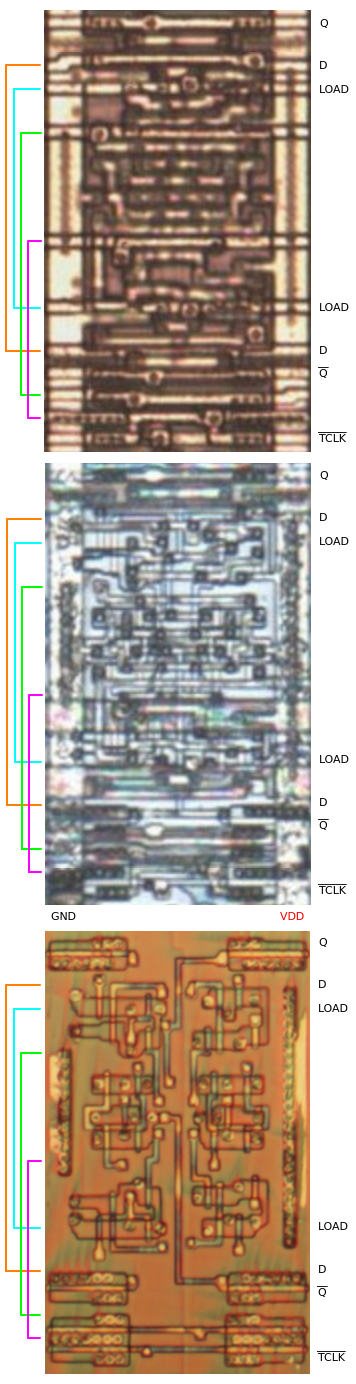
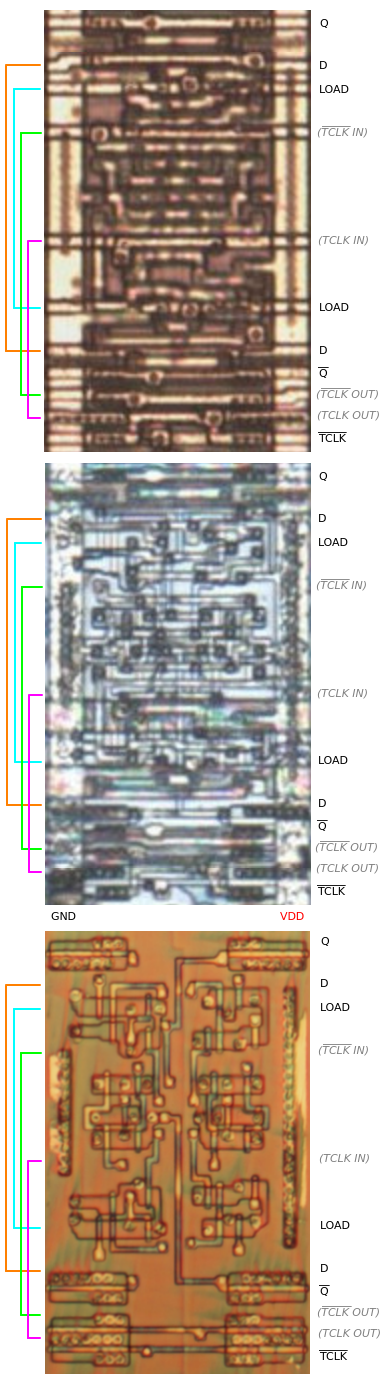
Add layout and schematic for TFFD cell

diff --git a/doc/dmg_cells.html b/doc/dmg_cells.html
@@ -4966,10 +4966,14 @@ input has priority over <span style="text-decoration:overline"><i>SET</i></span>
 <p>Negative-edge-triggered toggle flip-flop with active-high asynchronous data load.</p>
 <p>This flip-flop is used for counters that can be loaded with a value.</p>
 <p>There are four external connections always made on this cell (see orange, cyan, green and pink
-lines in the picture) that seem to be necessary for it to work.</p>
+lines in the picture). The green and pink connections feed the positive and negative clocks generated by the
+two inverters at the bottom of the cell to the transmission gates in the center. There is not a single
+instance of this cell that has those two clock connections swapped, which means all instances trigger on a
+negative clock edge. The orange and cyan connections are required to connect the two <i>D</i> and the two
+<i>LOAD</i> inputs respectively.</p>
 <p>Name in <a href="https://github.com/furrtek/DMG-CPU-Inside">DMG-CPU-Inside</a>: COUNT</p>
 <table>
-<tr><td><img src="img/cells/tffd_kenu_fave_done_desc.png?v=0" style="min-width:300px;" alt=""></td>
+<tr><td><img src="img/cells/tffd_kenu_fave_done_desc.png?v=1" style="min-width:300px;" alt=""></td>
 <td><table class="default">
 <tr><th>I/O</th><th>Description</th></tr>
 <tr><td><i>D</i></td>
@@ -4985,8 +4989,23 @@ the picture).</td></tr>
 <td>Data output.</td></tr>
 <tr><td><span style="text-decoration:overline"><i>Q</i></span></td>
 <td>Inverted data output.</td></tr>
+</table>
+<p>&nbsp;</p>
+<table class="default">
+<tr><th>External Connection</th><th>Description</th></tr>
+<tr><td><span style="color:gray"><i><span style="text-decoration:overline">TCLK</span> OUT</i></span></td>
+<td>Outputs (double-inverted) state of <span style="text-decoration:overline"><i>TCLK</i></span>.</td></tr>
+<tr><td><span style="color:gray"><i><span style="text-decoration:overline">TCLK</span> IN</i></span></td>
+<td>Input receiving the negative clock from
+<span style="color:gray"><i><span style="text-decoration:overline">TCLK</span> OUT</i></span>.</td></tr>
+<tr><td><span style="color:gray"><i>TCLK OUT</i></span></td>
+<td>Outputs inverted state of <span style="text-decoration:overline"><i>TCLK</i></span>.</td></tr>
+<tr><td><span style="color:gray"><i>TCLK IN</i></span></td>
+<td>Input receiving the positive clock from <span style="color:gray"><i>TCLK OUT</i></span>.</td></tr>
 </table></td></tr>
 </table>
+<p><img src="img/cells/tffd_layout.png?v=0" alt=""></p>
+<p><img src="img/cells/tffd_sch.png?v=0" alt=""></p>
 <p>Instances:
 <a href="/dmg_cpu_b_map/?view=c:akyd">AKYD</a>
 <a href="/dmg_cpu_b_map/?view=c:bacy">BACY</a>
